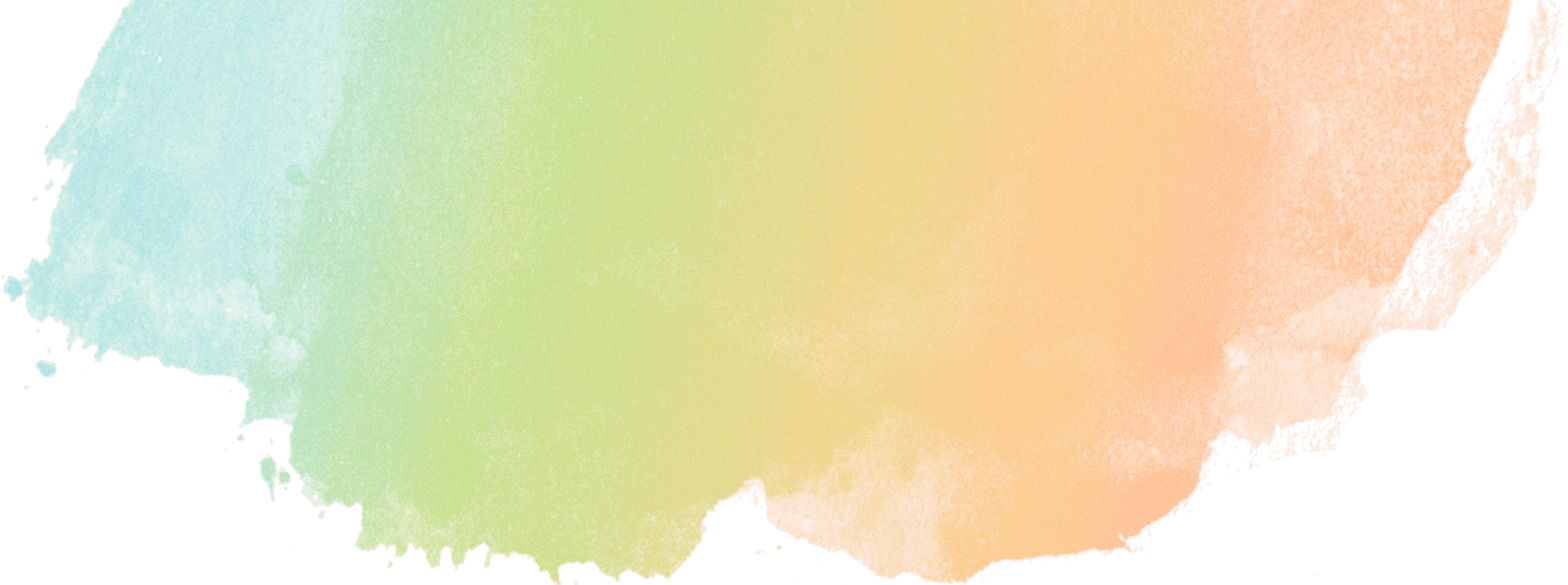
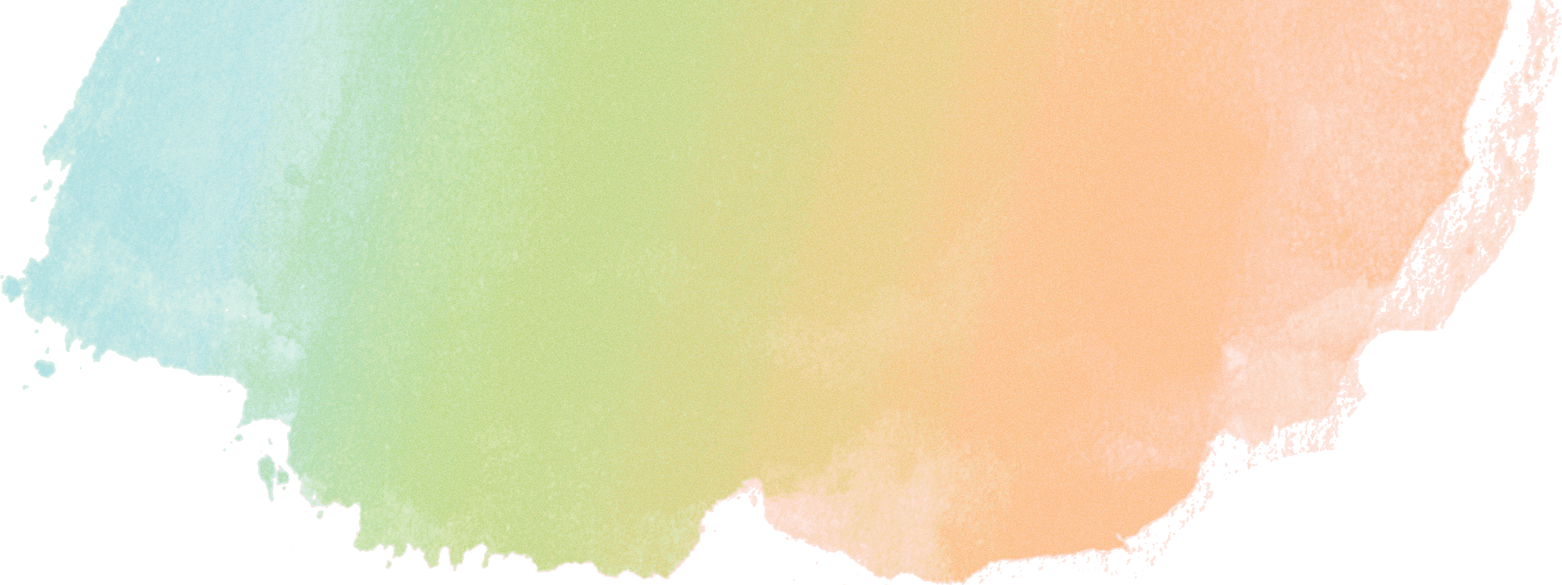
Normalize the background images and introduce dark mode variations
This is actually kinda clever. Instead of swapping the assets I just stack them for juicier colors.

Changed region(s): [[0.0, 0.0, 1.0, 1.0]]

diff --git a/src/_/css/custom.less b/src/_/css/custom.less
@@ -62,6 +62,10 @@ body.home {
   @media (max-width: 640px) {
     background-size: 900px;
   }
+
+  @media (prefers-color-scheme: dark) {
+    background-image: url("../img/background.png"), url("../img/background.png");
+  }
 }
 
 body.subpage {
@@ -70,6 +74,10 @@ body.subpage {
     background-repeat: no-repeat;
     background-position: center -60px;
     background-size: 1200px;
+
+    @media (prefers-color-scheme: dark) {
+      background-image: url("../img/background.png"), url("../img/background.png");
+    }
   }
 
   @media (max-width: 698px) {
@@ -139,14 +147,22 @@ body.subpage {
 }
 
 .subpage-header {
-  background-image: url("../img/background-subpage.png");
+  background-image: url("../img/background-small.png");
   background-repeat: no-repeat;
-  background-size: 635px;
+  background-size: 621px;
   padding: 68px 48px 164px 116px;
+
+  @media (prefers-color-scheme: dark) {
+    background-image: url("../img/background-small.png"), url("../img/background-small.png");
+  }
 
   @media (max-width: 980px) {
     background-image: none;
     height: 326px;
+
+    @media (prefers-color-scheme: dark) {
+      background-image: none;
+    }
   }
 
   @media (max-width: 698px) {
